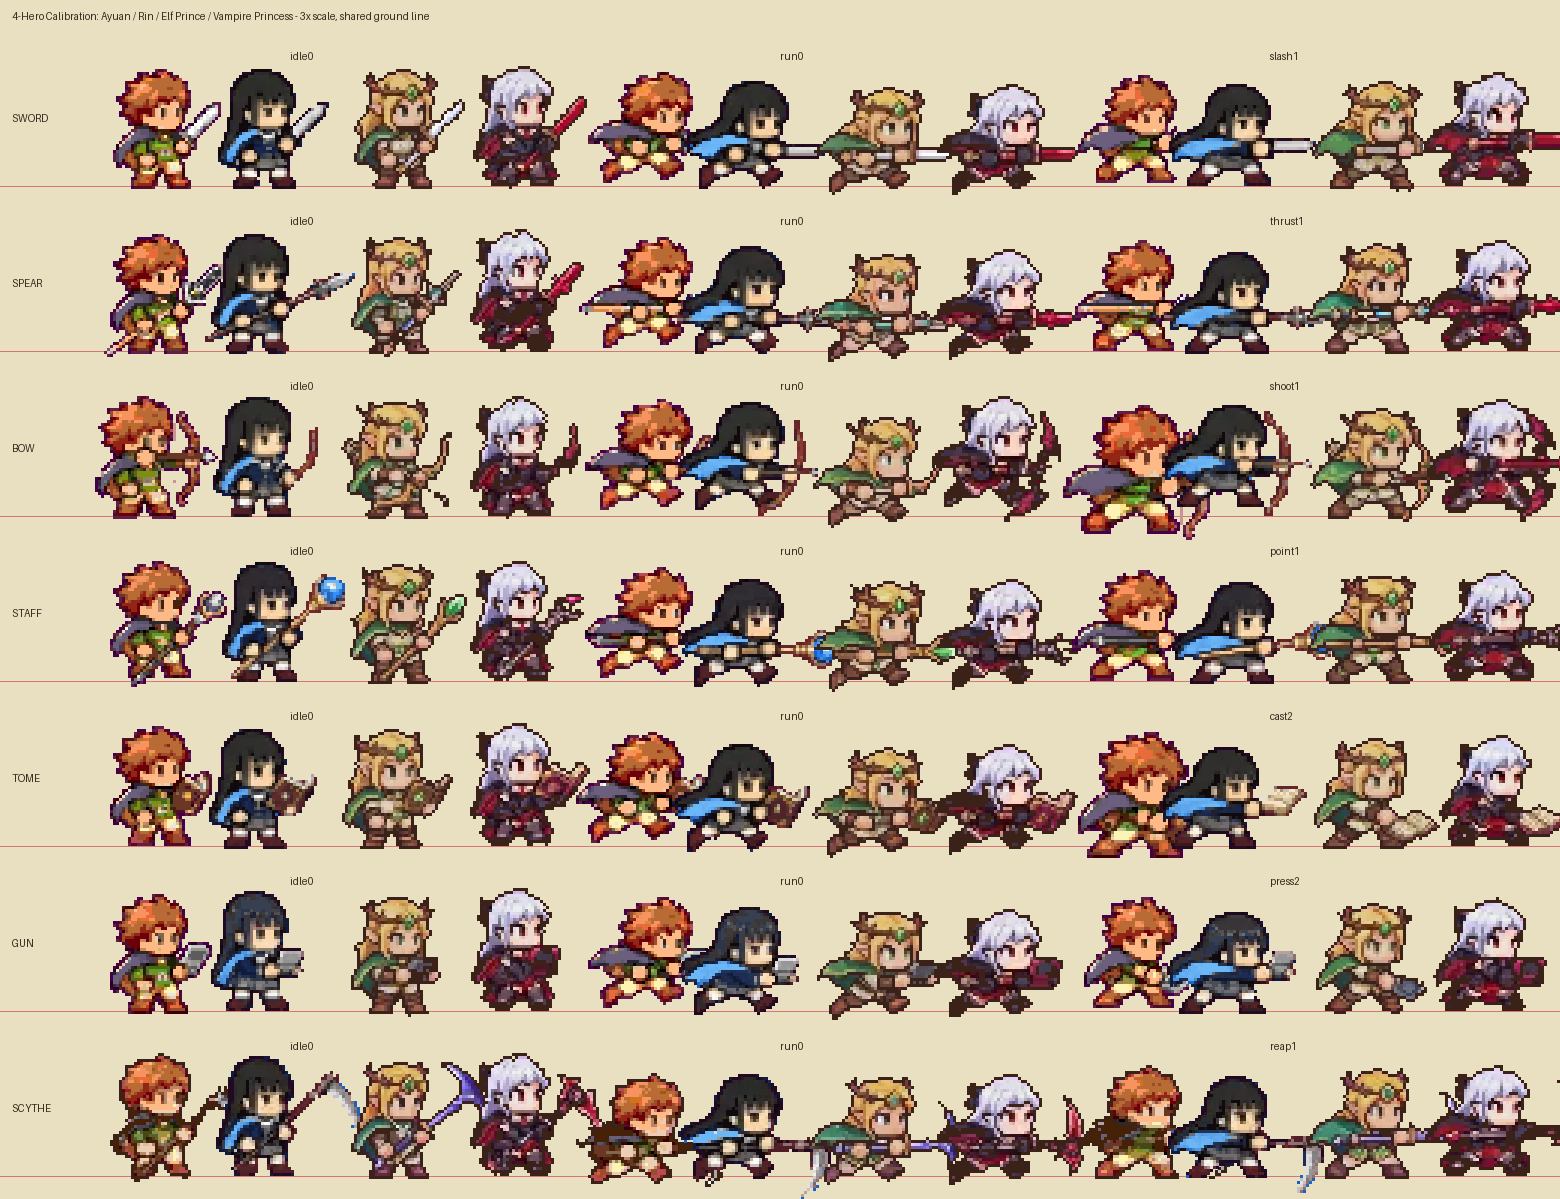
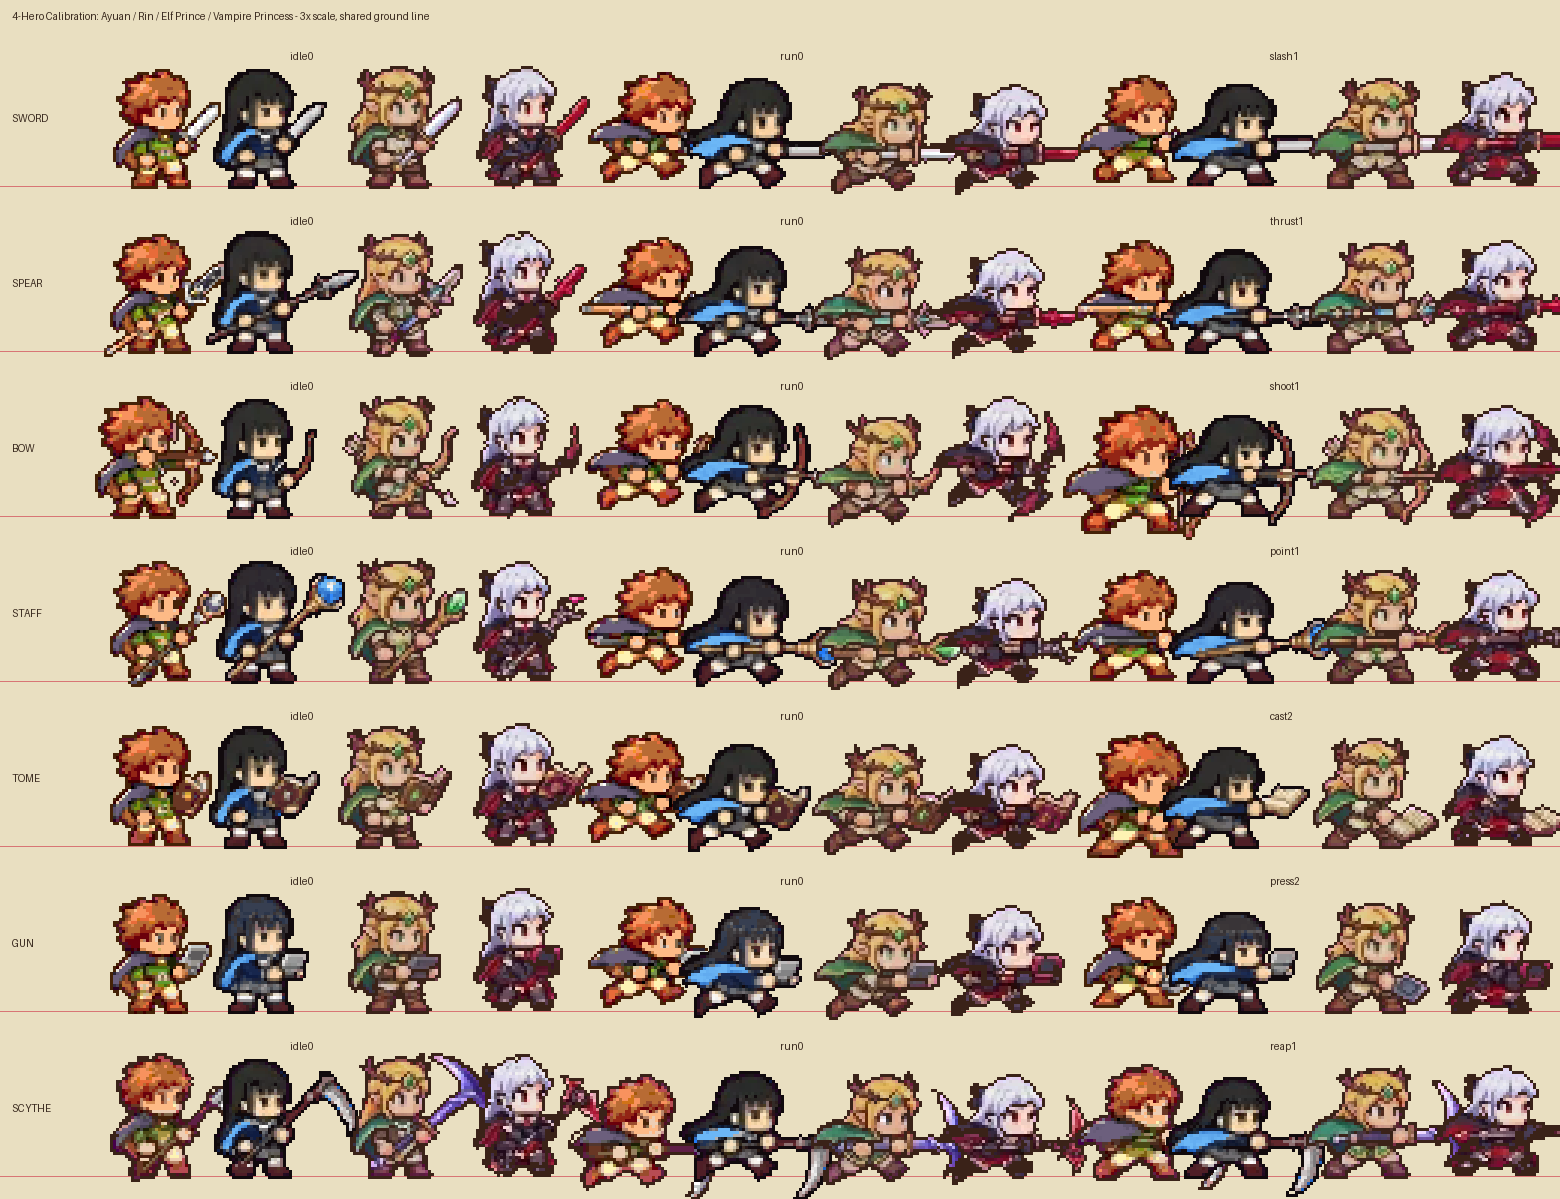
修正吸血鬼公主跑步帧锚点，排除弓身干扰使靴底紧贴落脚线

diff --git a/tools/pixel/build_heroV.py b/tools/pixel/build_heroV.py
@@ -135,8 +135,8 @@ def vampire_metrics(im):
         yy, xx = np.where(al)
         fcx, fcy, htop = float(np.median(xx)), float(np.median(yy)) * 0.4, 0.0
 
-    # Boots: dark pixels strictly under head/torso
-    near_boots = dark_body & (ys_all > fcy + im.height * 0.25) & (np.abs(xs_all - fcx) < im.width * 0.26)
+    # Boots: dark pixels strictly under head/torso (exclude bow/weapon extending to the right)
+    near_boots = dark_body & (ys_all > fcy + im.height * 0.25) & (xs_all >= fcx - im.width * 0.24) & (xs_all <= fcx + im.width * 0.14)
     by, bx = np.where(near_boots)
     if len(by) >= 4:
         boot_bot = float(np.percentile(by, 98))
